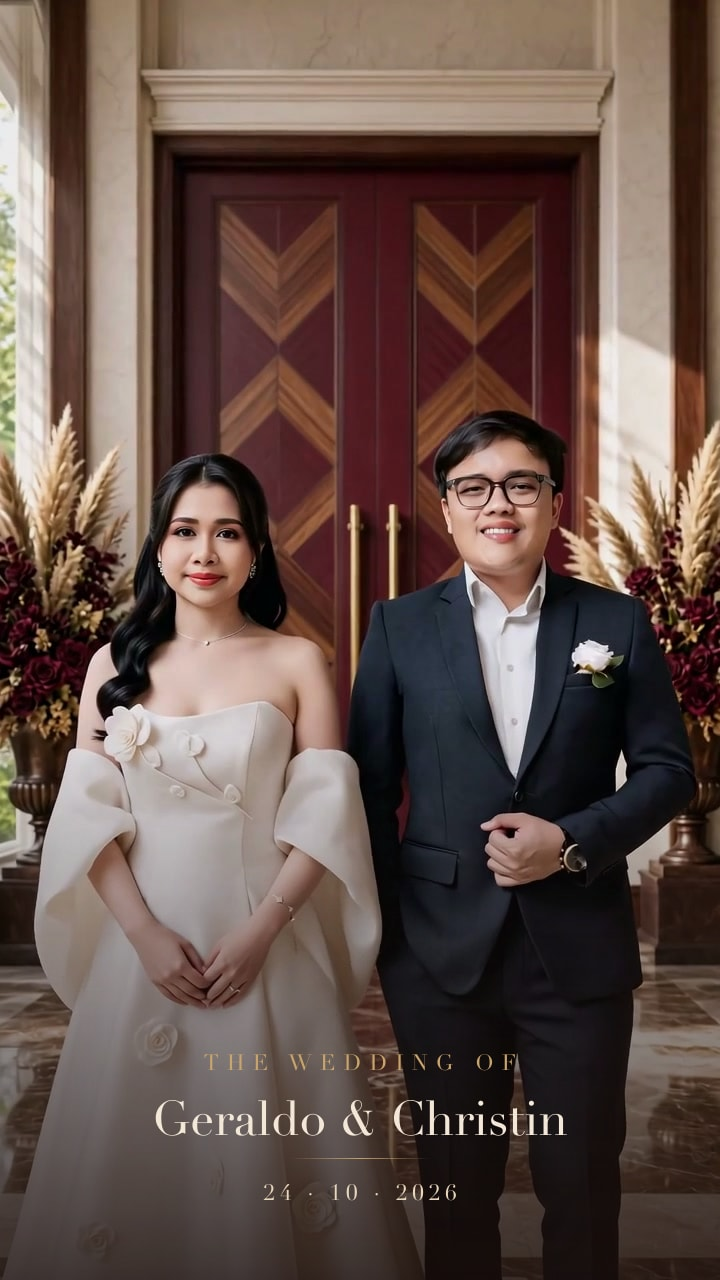
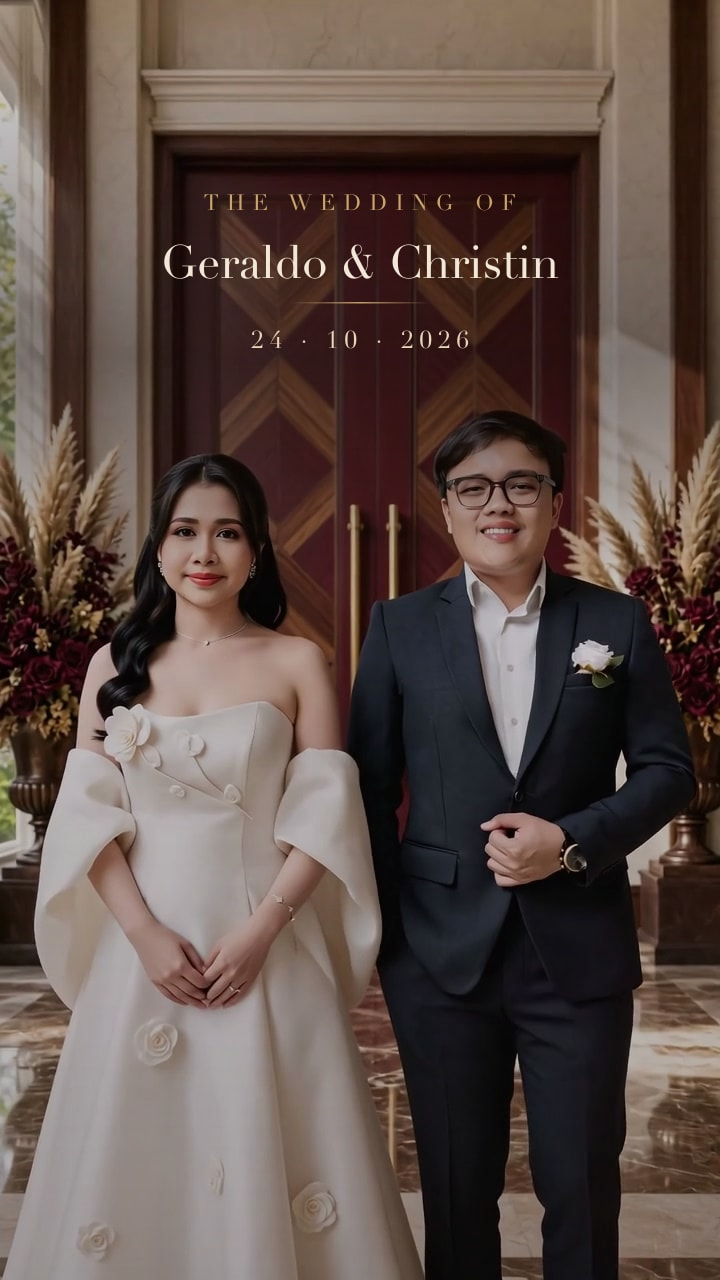
Keep OG date above WhatsApp crop on opening share card.

diff --git a/index.html b/index.html
@@ -19,7 +19,7 @@
     <meta property="og:title" content="The Wedding Of · Geraldo & Christin" />
     <meta property="og:description" content="Klik untuk informasi lebih lengkap" />
     <meta property="og:url" content="/" />
-    <meta property="og:image" content="/assets/ballroom/og-opening.jpg" />
+    <meta property="og:image" content="/assets/ballroom/og-opening-v2.jpg" />
     <meta property="og:image:type" content="image/jpeg" />
     <meta property="og:image:width" content="720" />
     <meta property="og:image:height" content="1280" />
@@ -29,7 +29,7 @@
     <meta name="twitter:card" content="summary_large_image" />
     <meta name="twitter:title" content="The Wedding Of · Geraldo & Christin" />
     <meta name="twitter:description" content="Klik untuk informasi lebih lengkap" />
-    <meta name="twitter:image" content="/assets/ballroom/og-opening.jpg" />
+    <meta name="twitter:image" content="/assets/ballroom/og-opening-v2.jpg" />
     <meta name="twitter:image:alt" content="The Wedding Of · Geraldo & Christin — 24 . 10 . 2026" />
 
     <link rel="icon" href="/icon-192.png" />
@@ -49,7 +49,7 @@
             "alternateName": "The Wedding Of Geraldo & Christin",
             "description": "Klik untuk informasi lebih lengkap",
             "inLanguage": "id-ID",
-            "image": "/assets/ballroom/og-opening.jpg"
+            "image": "/assets/ballroom/og-opening-v2.jpg"
           },
           {
             "@type": "WebPage",
@@ -61,7 +61,7 @@
             "inLanguage": "id-ID",
             "primaryImageOfPage": {
               "@type": "ImageObject",
-              "url": "/assets/ballroom/og-opening.jpg",
+              "url": "/assets/ballroom/og-opening-v2.jpg",
               "width": 720,
               "height": 1280
             }
@@ -83,7 +83,7 @@
                 "addressCountry": "ID"
               }
             },
-            "image": "/assets/ballroom/og-opening.jpg",
+            "image": "/assets/ballroom/og-opening-v2.jpg",
             "description": "Pemberkatan pernikahan Geraldo & Christin. The Wedding Of — Sabtu, 24 Oktober 2026."
           },
           {
@@ -103,7 +103,7 @@
                 "addressCountry": "ID"
               }
             },
-            "image": "/assets/ballroom/og-opening.jpg",
+            "image": "/assets/ballroom/og-opening-v2.jpg",
             "description": "Resepsi & adat Geraldo & Christin. Mark Your Calendar — Sabtu, 24 Oktober 2026."
           }
         ]

diff --git a/src/lib/merge-content.ts b/src/lib/merge-content.ts
@@ -305,6 +305,7 @@ export function mergeWeddingContent(overrides: SiteContentOverrides = {}): Weddi
     cmsOg.endsWith("/og-share.jpg") ||
     cmsOg.includes("/assets/ballroom/og-image.jpg") ||
     cmsOg.includes("/assets/ballroom/og-share.jpg") ||
+    cmsOg.includes("/assets/ballroom/og-opening.jpg") ||
     cmsOg.includes("/assets/ballroom/og-v3.jpg") ||
     cmsOg === "/assets/ballroom/og-share.jpg";
   const media = legacyOg ? { ...merged.media, ogImage: wedding.media.ogImage } : merged.media;

diff --git a/src/lib/merge-content.test.ts b/src/lib/merge-content.test.ts
@@ -166,7 +166,7 @@ Dengan penuh sukacita dan mengucap syukur kepada Tuhan Yesus Kristus, kami mengu
     const merged = mergeWeddingContent({
       media: { ogImage: "/assets/ballroom/og-image.jpg" },
     });
-    expect(merged.media.ogImage).toBe("/assets/ballroom/og-opening.jpg");
+    expect(merged.media.ogImage).toBe("/assets/ballroom/og-opening-v2.jpg");
   });
 
   it("migrates legacy story.paragraphs into milestones", () => {

diff --git a/src/config/wedding.config.ts b/src/config/wedding.config.ts
@@ -237,7 +237,7 @@ export const wedding = {
   media: {
     coverBg: "/assets/ballroom/cover-frame.jpg",
     audio: "/assets/ballroom/goodness-of-god.mp3",
-    ogImage: "/assets/ballroom/og-opening.jpg",
+    ogImage: "/assets/ballroom/og-opening-v2.jpg",
     logo: "/assets/ballroom/logo.png",
     openingVideo: "/assets/ballroom/opening.mp4",
     heroVideo: "/assets/ballroom/hero.mp4",
